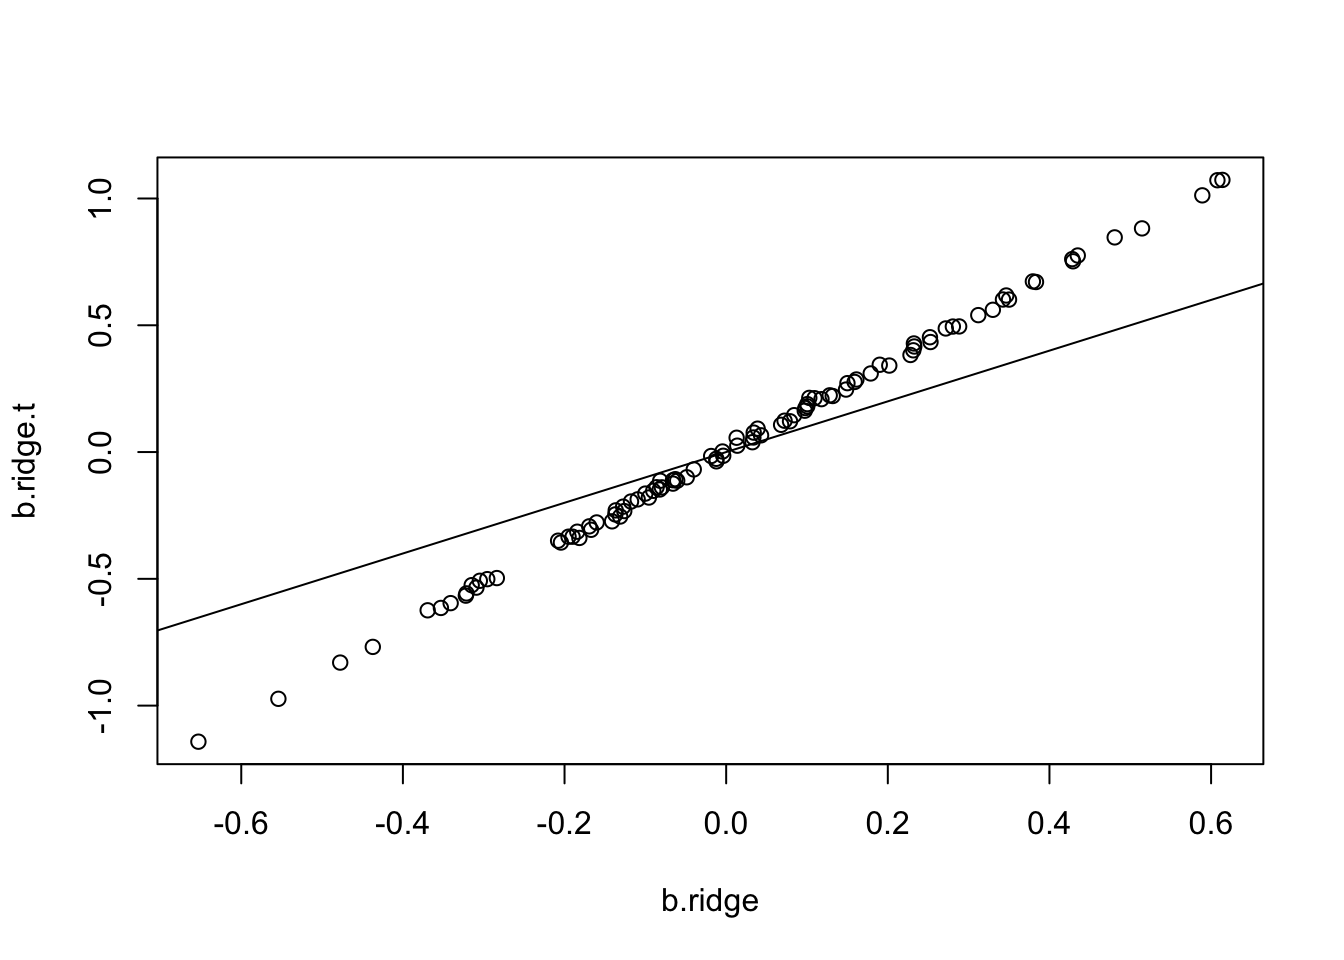
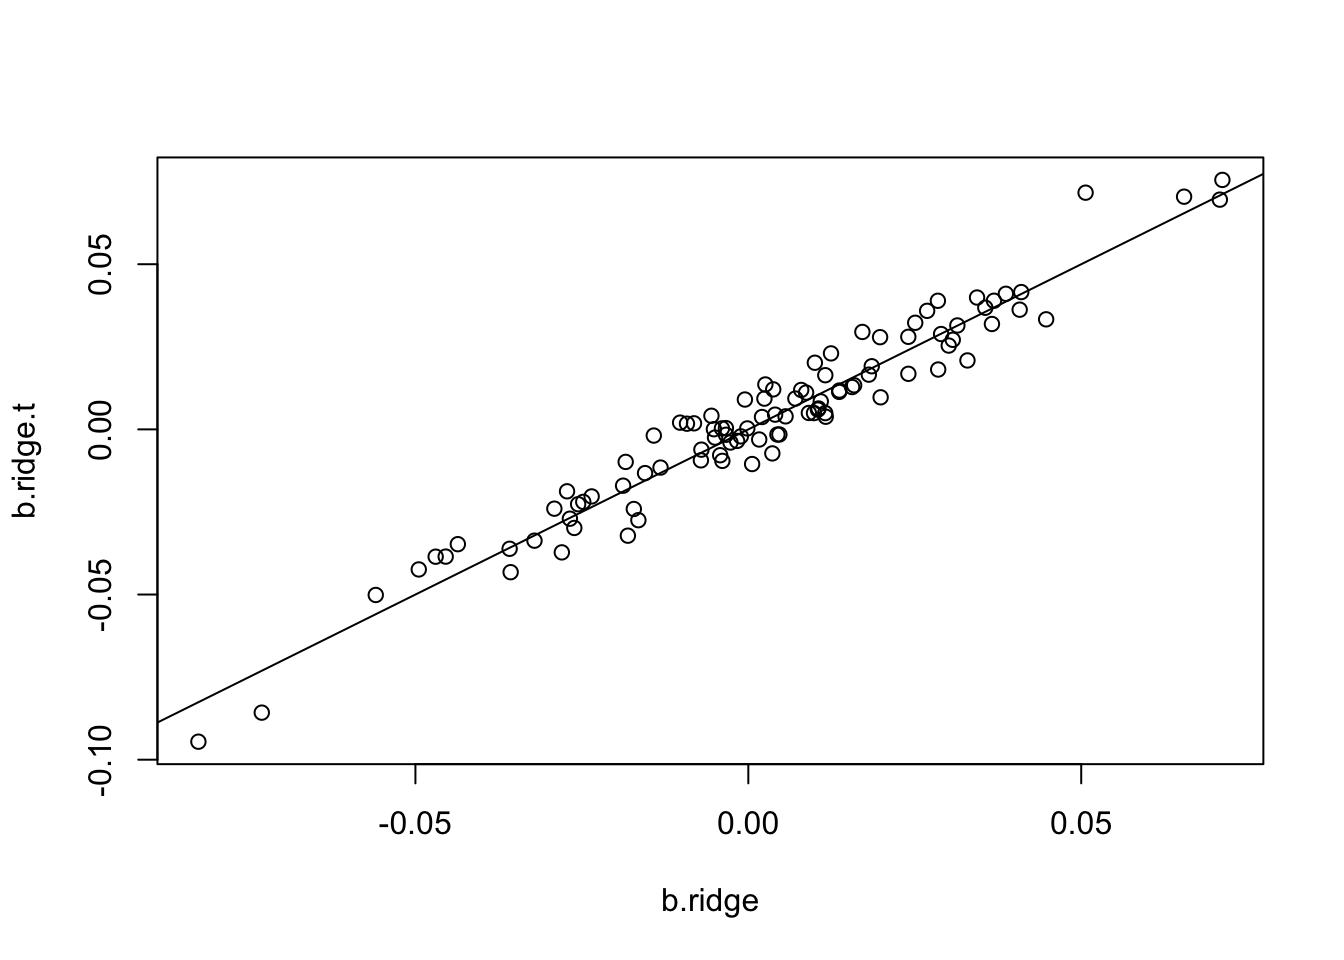
Build site.

diff --git a/docs/hw2.html b/docs/hw2.html
@@ -496,16 +496,16 @@ This reproducible <a href="http://rmarkdown.rstudio.com">R Markdown</a> analysis
 <div class="panel panel-default">
 <div class="panel-heading">
 <p class="panel-title">
-<a data-toggle="collapse" data-parent="#workflowr-checks" href="#strongRepositoryversionstrong006a46b"> <span class="glyphicon glyphicon-ok text-success" aria-hidden="true"></span> <strong>Repository version:</strong> 006a46b </a>
+<a data-toggle="collapse" data-parent="#workflowr-checks" href="#strongRepositoryversionstrongf435235"> <span class="glyphicon glyphicon-ok text-success" aria-hidden="true"></span> <strong>Repository version:</strong> f435235 </a>
 </p>
 </div>
-<div id="strongRepositoryversionstrong006a46b" class="panel-collapse collapse">
+<div id="strongRepositoryversionstrongf435235" class="panel-collapse collapse">
 <div class="panel-body">
 <p>
 Great! You are using Git for version control. Tracking code development and connecting the code version to the results is critical for reproducibility.
 </p>
 <p>
-The results in this page were generated with repository version 006a46b. See the <em>Past versions</em> tab to see a history of the changes made to the R Markdown and HTML files.
+The results in this page were generated with repository version f435235. See the <em>Past versions</em> tab to see a history of the changes made to the R Markdown and HTML files.
 </p>
 <p>
 Note that you need to be careful to ensure that all relevant files for the analysis have been committed to Git prior to generating the results (you can use <code>wflow_publish</code> or <code>wflow_git_commit</code>). workflowr only checks the R Markdown file, but you know if there are other scripts or data files that it depends on. Below is the status of the Git repository when the results were generated:
@@ -560,6 +560,40 @@ Message
 </tr>
 </thead>
 <tbody>
+<tr>
+<td>
+Rmd
+</td>
+<td>
+f435235
+</td>
+<td>
+zihao12
+</td>
+<td>
+2021-04-11
+</td>
+<td>
+update hw2
+</td>
+</tr>
+<tr>
+<td>
+html
+</td>
+<td>
+ecec9a6
+</td>
+<td>
+zihao12
+</td>
+<td>
+2021-04-11
+</td>
+<td>
+Build site.
+</td>
+</tr>
 <tr>
 <td>
 Rmd
@@ -853,34 +887,119 @@ zihao12
 <p>Plot the estimated (non-intercept) coefficients against the “theoretical” expectations you would expect if the predictors were orthogonal. Eg the “soft thresholding” property for the Lasso. (Note that the predictors here are not orthogonal, so the theory will certainly not hold precisely - does it hold approximately?)</p>
 <ul>
 <li><p>From the book we know, if <span class="math inline">\(X\)</span> has orthonormal columns, coefficients are ridge are <span class="math inline">\(\hat{\beta}_{j} /(1+\lambda)\)</span> and for lasso are <span class="math inline">\(\operatorname{sign}\left(\hat{\beta}_{j}\right)\left(\left|\hat{\beta}_{j}\right|-\lambda\right)_{+}\)</span>, where <span class="math inline">\(\hat{\beta}_{j}\)</span> is OLS estimate.</p></li>
-<li><p>Here, <span class="math inline">\(X\)</span>’s columns are assumed to be orthorgonal (may not have unit L2 norm). So I will get <span class="math inline">\(\hat{beta}\)</span> on standardized <span class="math inline">\(X\)</span>, get shrinkaged coefficients, then transform back to the un-standardized version.</p></li>
+<li><p>The trick here is to standardize <span class="math inline">\(X, y\)</span> before doing computation. Otherwise the <span class="math inline">\(\lambda\)</span> usedin <code>glmnet</code> means different things compared to our theoretical computation. I didn’t transform the <span class="math inline">\(\hat{\beta}\)</span> back as that simply multplies constants to both solutions which does not affect the comparison.</p></li>
+<li><p>As we can see below, the theoretical computation</p></li>
 </ul>
-<p>But the formula does not seem to work even for X with orthonormal columns. I think the problem is that the lambda means different things in my formula and in <code>glmnet</code></p>
-<pre class="r"><code>set.seed(123)
-X = svd(data_sim$X_train - colMeans(data_sim$X_train))$u ## for testing
-n = nrow(X); p = ncol(X)
-b = rnorm(p)
-y = X %*%b + rnorm(n, mean = 0, sd = 0.01)
-# y = data_sim$y_train
-# y = y - mean(y)
+<pre class="r"><code>X = data_sim$X_train
+X = (X - colMeans(X)) / apply(X, 1, sd)
+y = data_sim$y_train
+y= (y - mean(y)) / sd(y)
 
+## ridge 
 cv.ridge = cv.glmnet(X, y,alpha=0, nfolds = 10)
-lam = 100 * cv.ridge$lambda.min
-b.ols = lm(y ~ X)$coefficients[2:101]
+lam = cv.ridge$lambda.min
+
 b.ridge = glmnet(X, y, alpha = 0, lambda = lam)$beta
-
-
+b.ols = lm(y ~ X)$coefficients[2:101]
 b.ridge.t &lt;- b.ols/(1 + lam)
 
 plot(b.ridge, b.ridge.t)
 abline(a = 0, b= 1)</code></pre>
 <p><img src="figure/hw2.Rmd/unnamed-chunk-7-1.png" width="672" style="display: block; margin: auto;" /></p>
+<p>
+<button type="button" class="btn btn-default btn-xs btn-workflowr btn-workflowr-fig" data-toggle="collapse" data-target="#fig-unnamed-chunk-7-1">
+Past versions of unnamed-chunk-7-1.png
+</button>
+</p>
+<div id="fig-unnamed-chunk-7-1" class="collapse">
+<div class="table-responsive">
+<table class="table table-condensed table-hover">
+<thead>
+<tr>
+<th>
+Version
+</th>
+<th>
+Author
+</th>
+<th>
+Date
+</th>
+</tr>
+</thead>
+<tbody>
+<tr>
+<td>
+ecec9a6
+</td>
+<td>
+zihao12
+</td>
+<td>
+2021-04-11
+</td>
+</tr>
+</tbody>
+</table>
+</div>
+</div>
+<pre class="r"><code>## lasso
+cv.lasso = cv.glmnet(X, y,alpha=1, nfolds = 10)
+lam = cv.lasso$lambda.min
+b.ols = lm(y ~ X)$coefficients[2:101]
+b.lasso = glmnet(X, y, alpha = 1, lambda = lam)$beta
+
+
+b.lasso.t &lt;- abs(b.ols) - lam
+b.lasso.t[b.lasso.t &lt; 0] = 0
+b.lasso.t = b.lasso.t * sign(b.ols)
+
+plot(b.lasso, b.lasso.t)
+abline(a = 0, b= 1)</code></pre>
+<p><img src="figure/hw2.Rmd/unnamed-chunk-7-2.png" width="672" style="display: block; margin: auto;" /></p>
 </div>
 <div id="d" class="section level3">
 <h3>(d)</h3>
 <p>Check that indeed the sum of absolute values of the coefficients is decreasing along the lasso path. See plot blow</p>
 <pre class="r"><code>plot(log(Y.lasso$lambda), colSums(abs(Y.lasso$beta)), xlab = &quot;log(lambda)&quot;, ylab = &quot;sum of abs(beta)&quot;, main = &quot;lasso&quot;)</code></pre>
 <p><img src="figure/hw2.Rmd/unnamed-chunk-9-1.png" width="672" style="display: block; margin: auto;" /></p>
+<p>
+<button type="button" class="btn btn-default btn-xs btn-workflowr btn-workflowr-fig" data-toggle="collapse" data-target="#fig-unnamed-chunk-9-1">
+Past versions of unnamed-chunk-9-1.png
+</button>
+</p>
+<div id="fig-unnamed-chunk-9-1" class="collapse">
+<div class="table-responsive">
+<table class="table table-condensed table-hover">
+<thead>
+<tr>
+<th>
+Version
+</th>
+<th>
+Author
+</th>
+<th>
+Date
+</th>
+</tr>
+</thead>
+<tbody>
+<tr>
+<td>
+ecec9a6
+</td>
+<td>
+zihao12
+</td>
+<td>
+2021-04-11
+</td>
+</tr>
+</tbody>
+</table>
+</div>
+</div>
 </div>
 <div id="e-todo" class="section level3">
 <h3>(e) TODO</h3>
@@ -905,11 +1024,11 @@ data_sim2 = simulate_data2()
 cv.ridge = cv.glmnet(X, y, alpha = 0)
 fit.ridge &lt;- glmnet(X, y, alpha = 0, lambda = cv.ridge$lambda)
 sum((fit.ridge$beta - data_sim2$b)^2)</code></pre>
-<pre><code>[1] 3741.569</code></pre>
+<pre><code>[1] 1377.635</code></pre>
 <pre class="r"><code>cv.lasso = cv.glmnet(X, y, alpha = 1)
 fit.lasso &lt;- glmnet(X, y, alpha = 1, lambda = cv.lasso$lambda)
 sum((fit.lasso$beta - data_sim2$b)^2)</code></pre>
-<pre><code>[1] 3020.75</code></pre>
+<pre><code>[1] 921.4503</code></pre>
 <p>The empirical loss shows that Lasso is btter in this sparse setting.</p>
 <br>
 <p>
